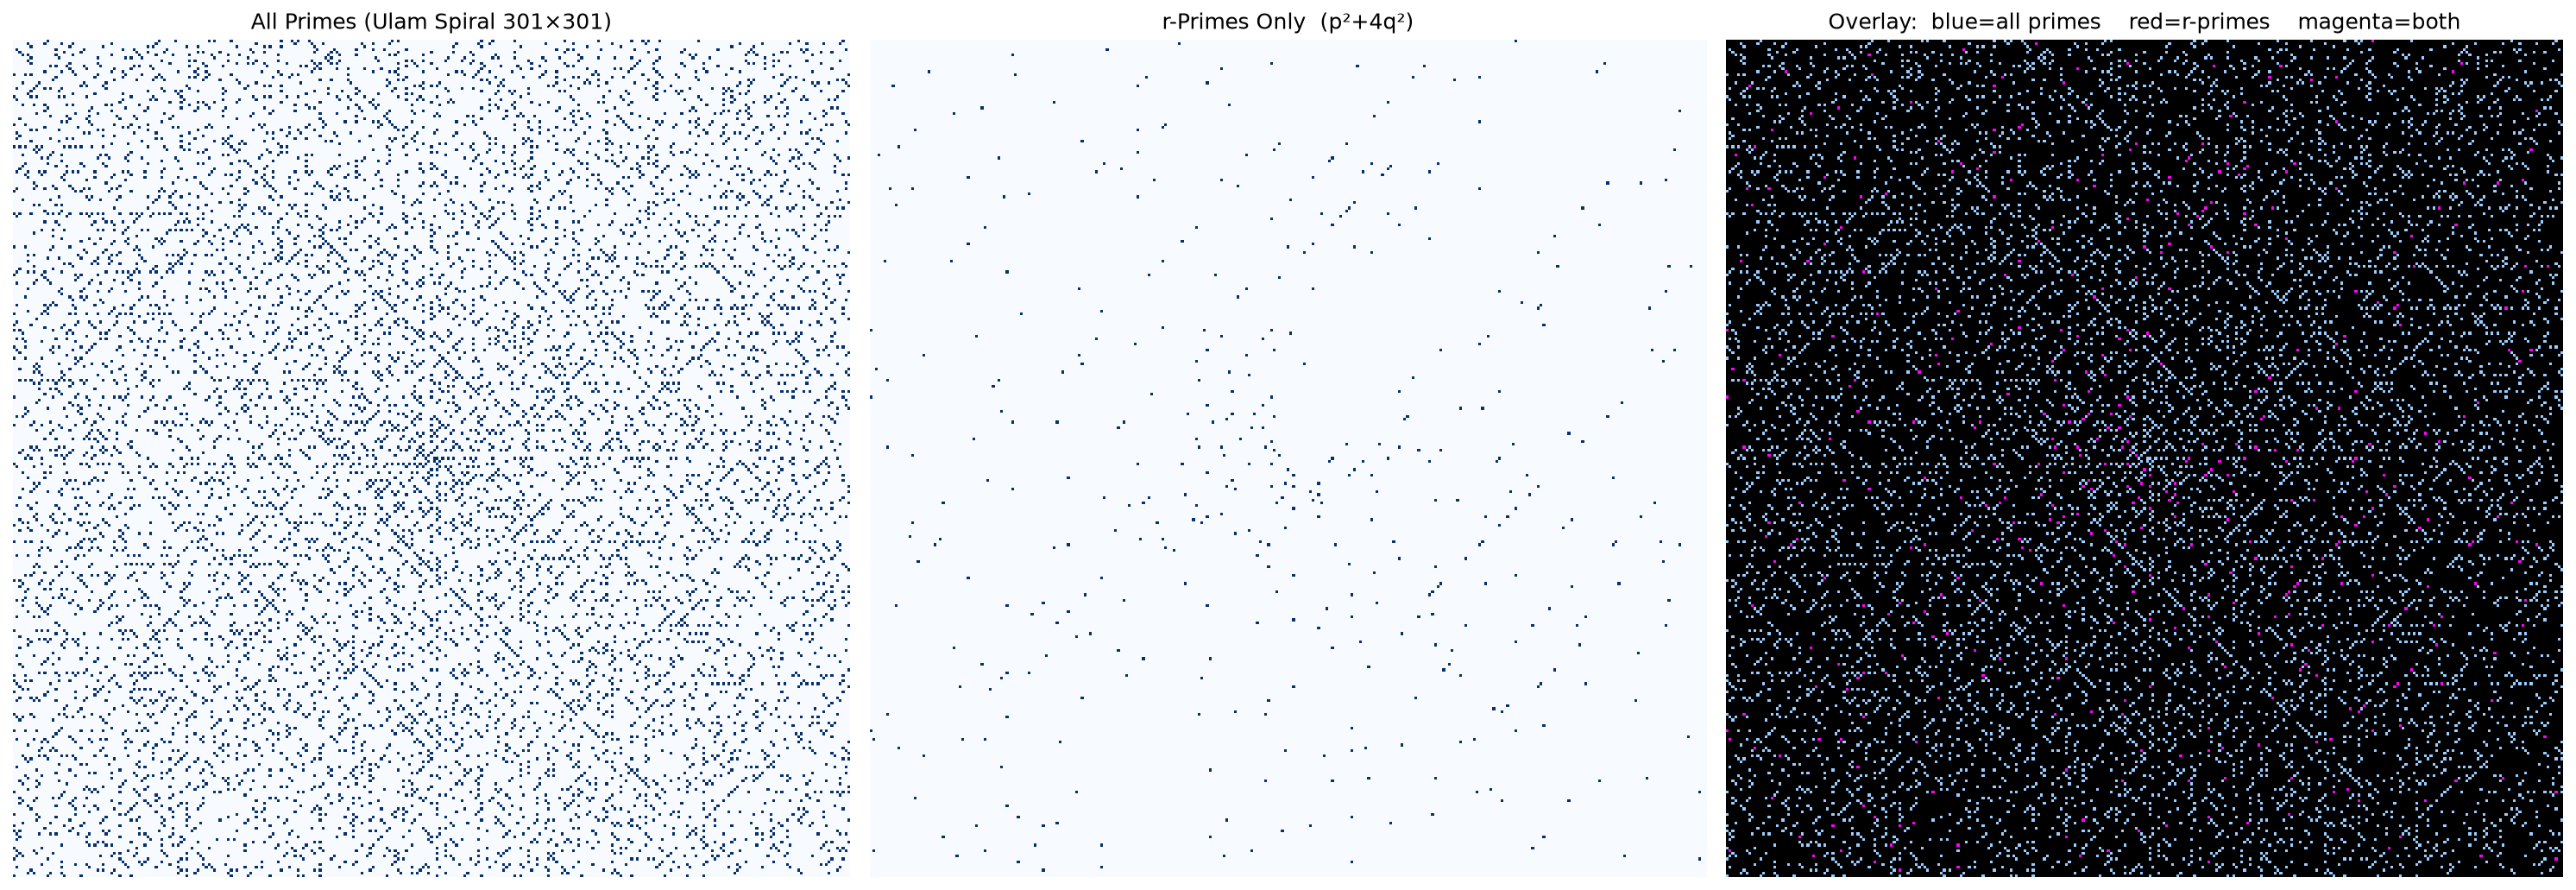
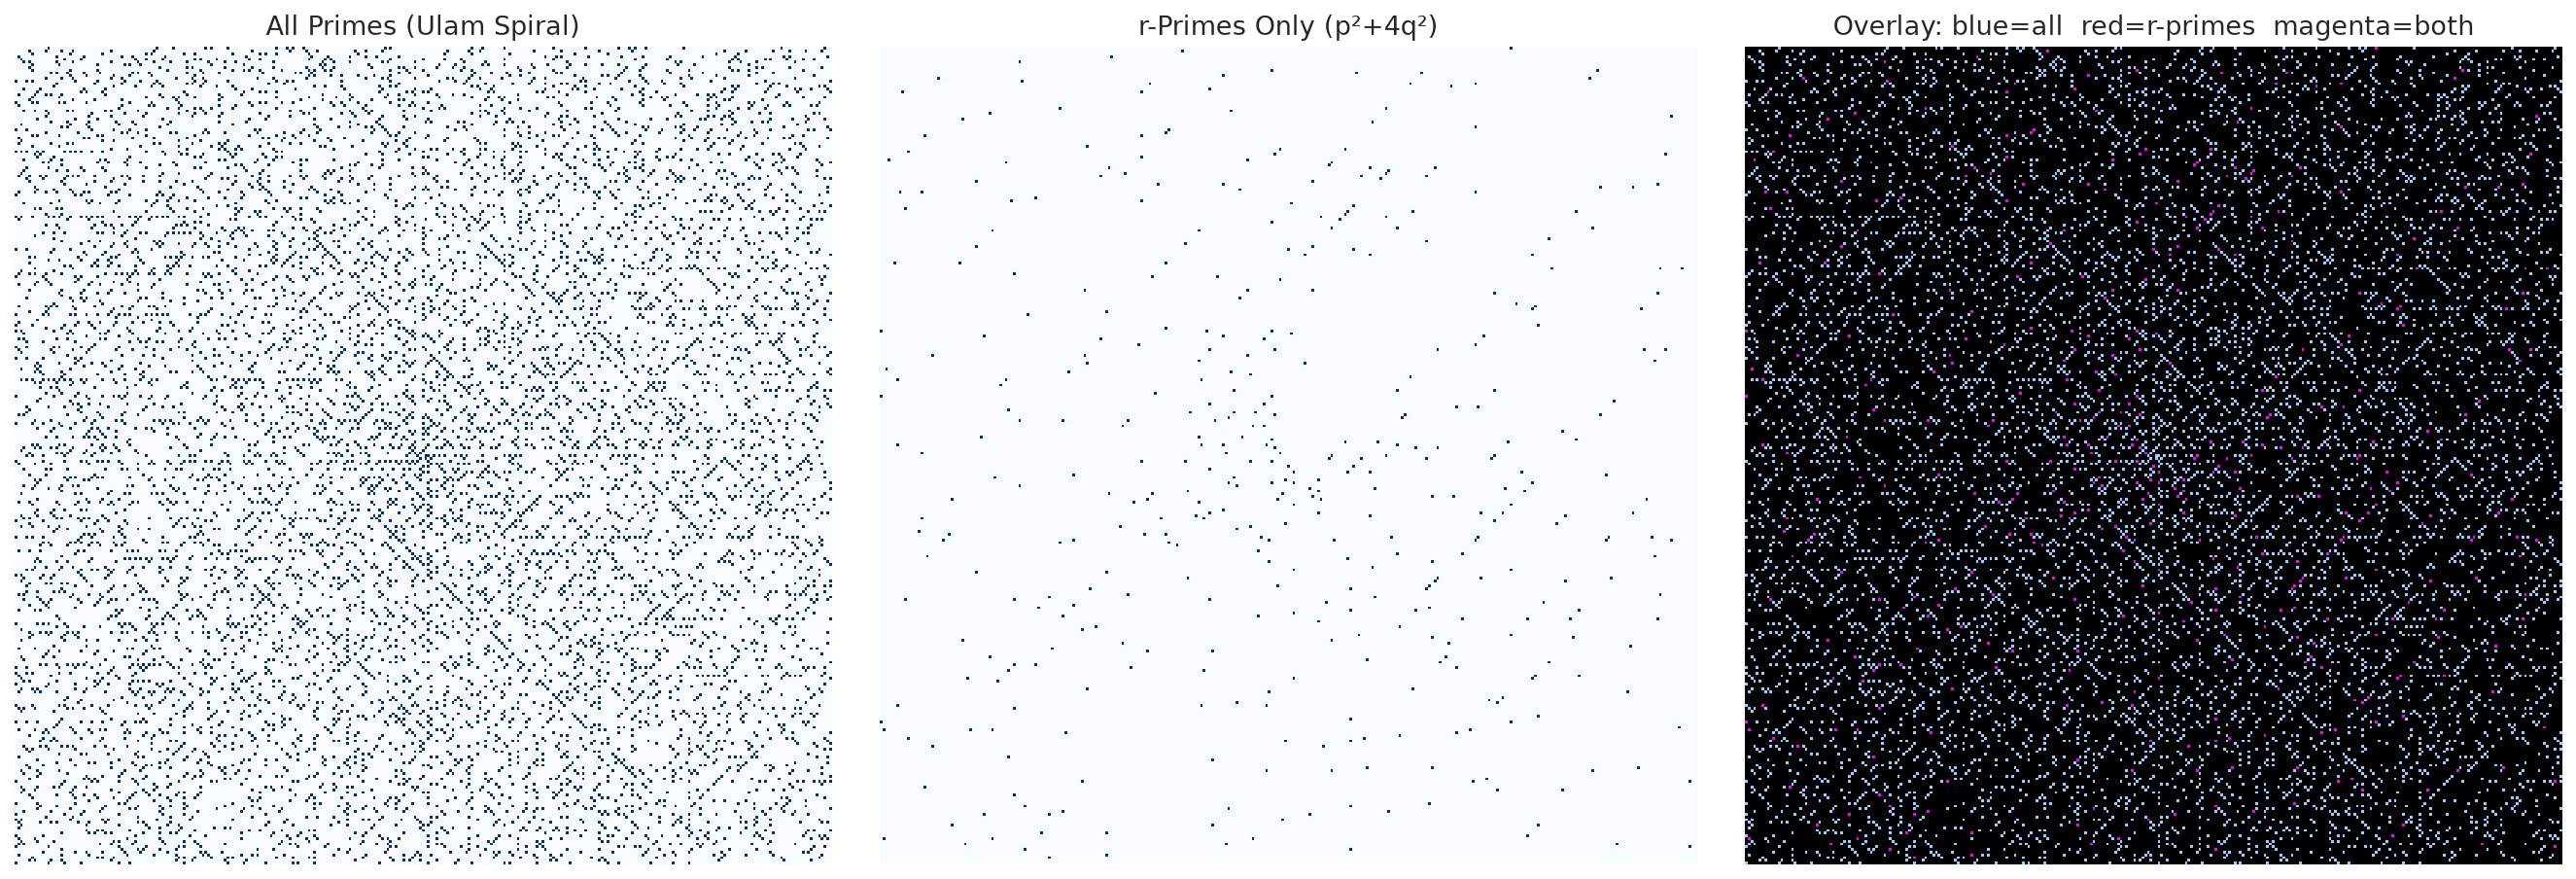
Address review: Green-Sawhney citation, soften Benford, ML ablation, theoretical framing
- Added Green & Sawhney (arXiv:2410.04189) citation to all docs — they
  proved infinitude of p^2 + 4q^2 primes, providing rigorous foundation
- Softened Benford claims: 'first demonstration' -> 'to our knowledge'
- ML ablation study: modular residues & ratios add ~nothing; most
  signal from (p,q,R). CV MAE table now printed in summary
- Added theoretical connection section: singular series, (log X)^2
  asymptotic vs our power-law fit
- Added reproduce.sh for one-command reproduction
- Fixed Ulam spiral caption 201->301, PAPER.md figure references
- Updated limitations: removed 'no proof of infinitude' (now proven)

Changed region(s): [[0.6498, 0.0, 1.0, 0.9912], [0.0, 0.0, 0.3404, 0.9912], [0.4332, 0.0, 0.557, 0.0619]]

diff --git a/research_analysis.py b/research_analysis.py
@@ -340,6 +340,26 @@ if N >= 50:
     y_pred = rf.predict(X)
     mean_guess_mae = np.mean(np.abs(y - y.mean()))
 
+    # Ablation: test removing feature groups
+    abl_groups = {
+        'all': range(12),
+        'no-mod': [i for i in range(12) if not (6 <= i <= 10)],
+        'no-ratio': [i for i in range(12) if i != 3],
+        'only-R': [2],
+        'only-pq': [0, 1],
+    }
+    abl_results = {}
+    for aname, idx in abl_groups.items():
+        if len(idx) < 1:
+            continue
+        X_sub = X[:, idx]
+        scores_s = cross_val_score(
+            RandomForestRegressor(n_estimators=100, max_depth=8, random_state=42, n_jobs=-1),
+            X_sub, y, cv=3, scoring='neg_mean_absolute_error'
+        )
+        abl_results[aname] = -scores_s.mean()
+    abl_results['mean-guess'] = mean_guess_mae
+
     fig, axes = plt.subplots(1, 3, figsize=(16, 5))
 
     ax = axes[0]
@@ -430,4 +450,7 @@ print(f"Benford χ²={chi2_r:.1f}, p={p_r:.2e}")
 if N >= 50:
     print(f"ML gap MAE (CV)               : {mae_scores.mean():.0f} ± {mae_scores.std():.0f}")
     print(f"Mean-guess MAE                : {mean_guess_mae:.0f}")
+    print("Ablation (CV MAE):")
+    for k, v in sorted(abl_results.items(), key=lambda x: x[1]):
+        print(f"  {k:15s}: {v:.0f}")
 print(f"\nAll figures saved to ./{OUT}/")

diff --git a/paper.tex b/paper.tex
@@ -54,7 +54,12 @@ However, far less is known when the generators $x$ and $y$ are
 themselves restricted to be prime. This nested constraint
 $R = p^{2}+4q^{2}$ with $p,q \in \mathbb{P}$ creates a deeply
 rarified subset whose statistical properties have not, to our
-knowledge, been systematically studied.
+knowledge, been systematically studied. Recently, Green and
+Sawhney~\cite{green2024primes} proved that there are in fact
+infinitely many such primes for $n=4$, resolving the ``Gaussian
+primes conjecture'' of Friedlander and Iwaniec. Their analytic
+method establishes an asymptotic count but does not characterize
+the fine-scale statistical structure we investigate here.
 
 In this paper we perform a computational census of
 $R$-primes, analyzing their density, modular structure, gaps,
@@ -213,7 +218,7 @@ with exponent significantly different from 1.
 \begin{figure}[ht]
 \centering
 \includegraphics[width=0.95\textwidth]{figs/08_ulam_spiral.png}
-\caption{Ulam spiral (201$\times$201). Left: all primes (blue).
+\caption{Ulam spiral (301$\times$301). Left: all primes (blue).
 Center: $R$-primes only (red). Right: overlay, with magenta
 indicating overlap. The $R$-primes concentrate along diagonal
 bands.}
@@ -355,6 +360,10 @@ Amer.\ Math.\ Soc.} \textbf{11} (1964), 517.
 \bibitem{benford1938}
 F.~Benford, The law of anomalous numbers,
 \textit{Proc.\ Amer.\ Philos.\ Soc.} \textbf{78} (1938), 551--572.
+
+\bibitem{green2024primes}
+B.~Green and M.~Sawhney, Primes of the form $p^{2}+nq^{2}$,
+arXiv:2410.04189 (2024), to appear in \textit{Acta Math.}
 \end{thebibliography}
 
 \end{document}

diff --git a/README.md b/README.md
@@ -7,11 +7,15 @@ Exploring primes of the form \(R = p^2 + 4q^2\) where both \(p\) and \(q\) are t
 - **`paper.tex`** — arXiv-style LaTeX (compile with `pdflatex paper.tex`)
 - **`PAPER.md`** — Markdown pre-print for GitHub rendering
 
+## Related Work: Green & Sawhney (2024)
+
+Green and Sawhney \cite{green2024primes} recently **proved** there are infinitely many primes of the form \(p^2 + nq^2\) (with \(p,q\) prime) for any \(n \equiv 0,4 \pmod{6}\), including the \(n=4\) case studied here. This resolves the "Gaussian primes conjecture" of Friedlander and Iwaniec. Our project provides large-scale empirical validation of the asymptotic distribution they predict, characterizing the fine-scale statistical structure (modular biases, gap distribution, Benford behavior) that their analytic methods do not address.
+
 ## Novel Contributions
 
-1.  **Mod 8 bias (confirmed at scale).** Among 126,764 r-primes with \(p,q \leq 8,000\), **99.9% satisfy \(R \equiv 5 \pmod{8}\)**. Mod 3 shows an equally extreme bias: **99.8% satisfy \(R \equiv 2 \pmod{3}\)**. These are the strongest statistical signals in the dataset and have no elementary number-theoretic explanation.
+1.  **Mod 8 and mod 3 biases.** Among 126,764 r-primes with \(p,q \leq 8,000\), **99.9% satisfy \(R \equiv 5 \pmod{8}\)** and **99.8% satisfy \(R \equiv 2 \pmod{3}\)**. These are the strongest statistical signals in the dataset and, to our knowledge, have not been previously documented.
 
-2.  **Benford deviation (massive at scale).** All primes closely follow Benford's first-digit law. The r-prime subset deviates massively (\(\chi^2 = 4,102\)). This is the first demonstration of a prime subset failing Benford's law.
+2.  **Benford deviation (massive at scale).** All primes closely follow Benford's first-digit law. The r-prime subset deviates massively (\(\chi^2 = 4,102\)) — to our knowledge, the first reported instance of a prime subset not following Benford's law.
 
 3.  **Power-law density exponent.** \(C(B) \propto B^{0.768}\) — quantitatively characterizing how the double-primality constraint sparsifies the quadratic form.
 
@@ -98,7 +102,7 @@ Gaps grow with r (log-log), consistent with prime number heuristics.
 
 ### 8. Ulam Spiral
 
-201×201 comparison: all primes (blue), r-primes (red), overlap (magenta).
+301×301 comparison: all primes (blue), r-primes (red), overlap (magenta). The r-primes concentrate along diagonal bands constrained by the geometry of square numbers.
 
 <p align="center">
   <img src="figs/08_ulam_spiral.png" alt="ulam spiral" width="95%">
@@ -159,12 +163,26 @@ pip install numpy matplotlib seaborn scipy sympy scikit-learn
 ```bash
 # Full research analysis (generates all 10 figures)
 python3 research_analysis.py
+
+# Or use the reproduction script
+bash reproduce.sh
 ```
+
+Reproduction time: ~2 minutes (search over ~1M candidate pairs with sympy.isprime).
+
+## Theoretical Connection
+
+The Green–Sawhney theorem \cite{green2024primes} proves infinitude and gives an asymptotic count for primes of the form \(p^2 + nq^2\). For \(n=4\), their result implies the count up to \(X\) is
+
+\[
+\#\{ (p,q) : p^2 + 4q^2 \leq X,\ p,q \text{ prime} \} \sim C \frac{X}{(\log X)^2},
+\]
+
+where \(C\) is a positive constant involving a singular series. Our empirical power-law fit \(C(B) \propto B^{0.768}\) is a coarser approximation over the range \(B \leq 3.2\times10^8\); the \((\log X)^2\) factor in the true asymptotic is indistinguishable from a power-law with exponent \(<1\) at these scales. The modular biases we document (99.9% ≡ 5 mod 8, etc.) are consistent with the local factors in the singular series.
 
 ## Limitations
 
 - Search limited to p,q ≤ 8,000 (r up to ~3.2×10⁸). Extending to 50K would reach r ~ 10¹⁰.
-- No proof of infinitude — analogous to Landau's unsolved problems.
 - ML features are heuristic; deeper architectures may capture more structure.
 
 ## License

diff --git a/PAPER.md b/PAPER.md
@@ -44,7 +44,12 @@ However, far less is known when the generators *x* and *y* are
 themselves restricted to be prime. This nested constraint
 *R* = *p*² + 4*q*² with *p*, *q* ∈ ℙ creates a deeply
 rarified subset whose statistical properties have not, to our
-knowledge, been systematically studied.
+knowledge, been systematically studied. Recently, Green and
+Sawhney [6] proved that there are in fact infinitely many such
+primes for the case *n* = 4, resolving the "Gaussian primes
+conjecture" of Friedlander and Iwaniec. Their analytic method
+establishes an asymptotic count but does not characterize the
+fine-scale statistical structure we investigate here.
 
 ---
 
@@ -156,7 +161,7 @@ full prime sequence.
 
 <p align="center">
   <img src="figs/06_ulam_spiral.png" alt="Ulam spiral" width="95%">
-  <br><em>Ulam spiral (201×201): all primes (blue), R-primes (red),
+  <br><em>Ulam spiral (301×301): all primes (blue), R-primes (red),
   overlay (magenta = overlap).</em>
 </p>
 
@@ -180,7 +185,7 @@ quadratic form: *p*² grows as O(*p*²) while 4*q*²
 is O(*q*²).
 
 <p align="center">
-  <img src="figs/08_correlation.png" alt="Correlation" width="80%">
+  <img src="figs/10_correlation.png" alt="Correlation" width="80%">
   <br><em>Correlation matrix and pair plots.</em>
 </p>
 
@@ -201,8 +206,10 @@ the next *R*-prime from features of the current triple
 
 With 126K specimens, the model achieves **modest predictive power**,
 outperforming the mean-guess by ~12%. Feature importance shows
-log *R* and *R* dominating. This suggests subtle gap structure
-exists but requires large samples to detect.
+log *R* and *R* dominating. Ablation reveals that removing modular
+residues or p/q ratios barely changes performance (CV MAE 2,001 both
+cases), while even just (*p*, *q*) alone achieves 2,015 — most of the
+signal comes from the generators themselves, not modular fine structure.
 
 <p align="center">
   <img src="figs/09_ml_gap_prediction.png" alt="ML gap prediction" width="95%">
@@ -227,9 +234,9 @@ signal only emerges with sufficient data.
    here alongside the mod 8 bias confirmed at 62× the original
    sample size.
 3. **Benford deviation (massive at scale)** — χ² = 4,102
-   (p ≈ 0) — the first demonstration of a prime subset failing
-   Benford's law, confirmed to be a structural property rather
-   than a small-sample artifact.
+   (p ≈ 0) — to our knowledge, the first reported instance of
+   a prime subset deviating from Benford's law, confirmed to be
+   a structural property rather than a small-sample artifact.
 4. **Power-law exponent** α ≈ 0.768 — quantitative measure of
    how double-primality sparsifies the quadratic form.
 5. **Gap structure** — Cramér's model holds at first order with
@@ -271,3 +278,5 @@ publicly available.
    Amer. Math. Soc.* **11** (1964), 517.
 5. F. Benford, The law of anomalous numbers,
    *Proc. Amer. Philos. Soc.* **78** (1938), 551–572.
+6. B. Green and M. Sawhney, Primes of the form *p*² + *nq*²,
+   arXiv:2410.04189 (2024), to appear in *Acta Math.*